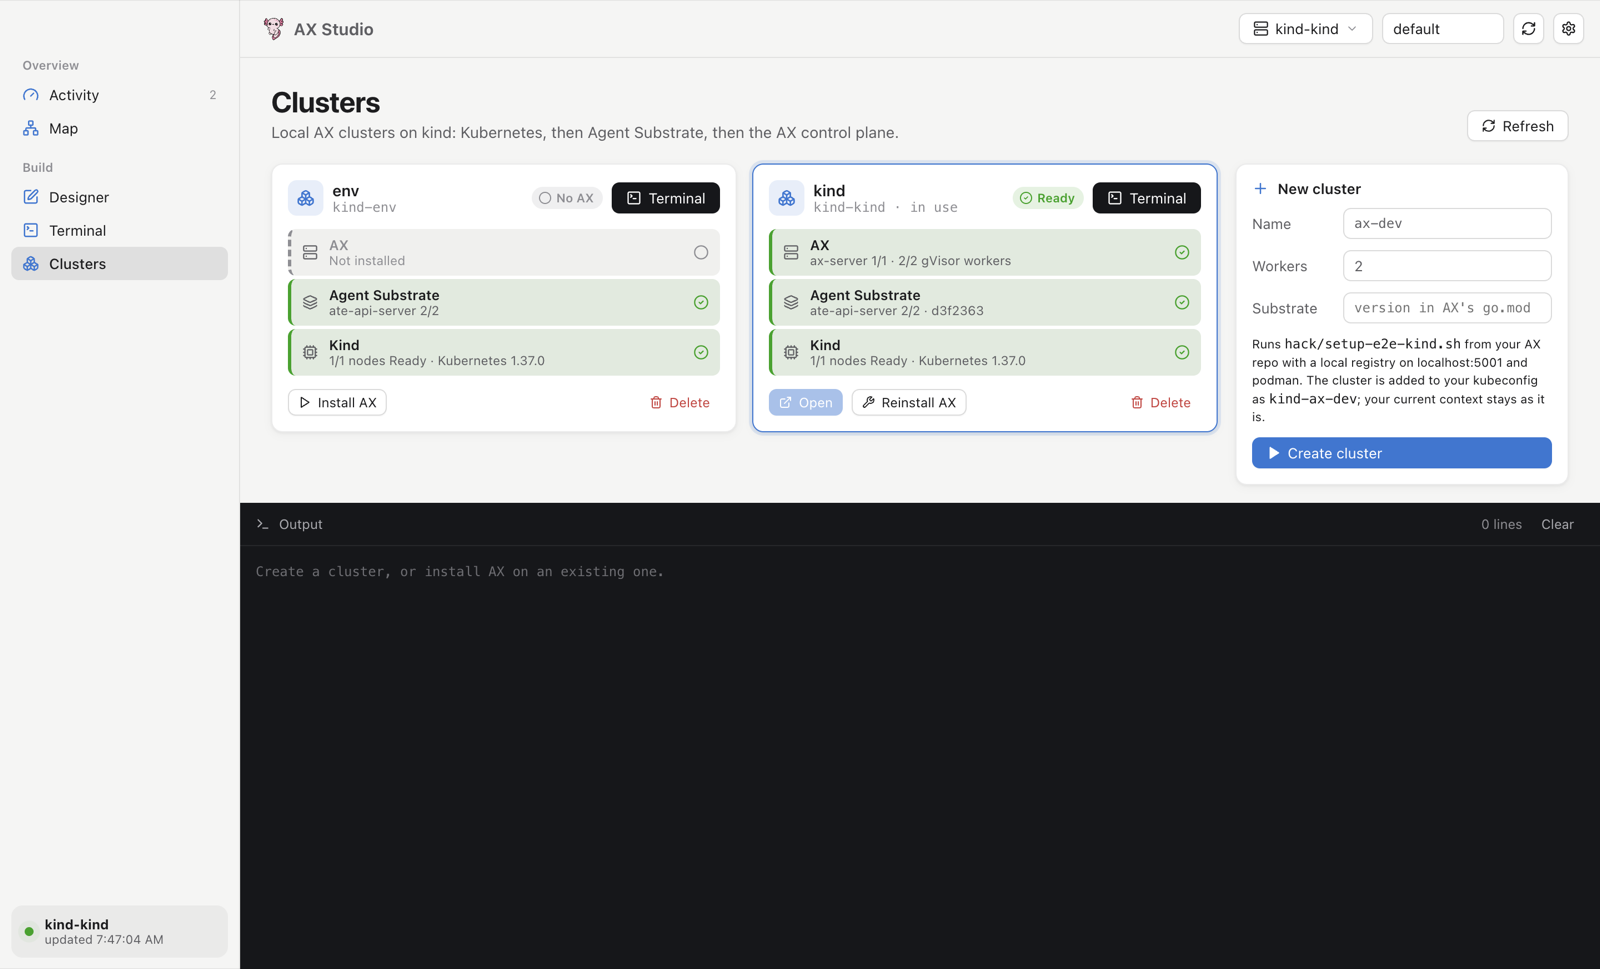
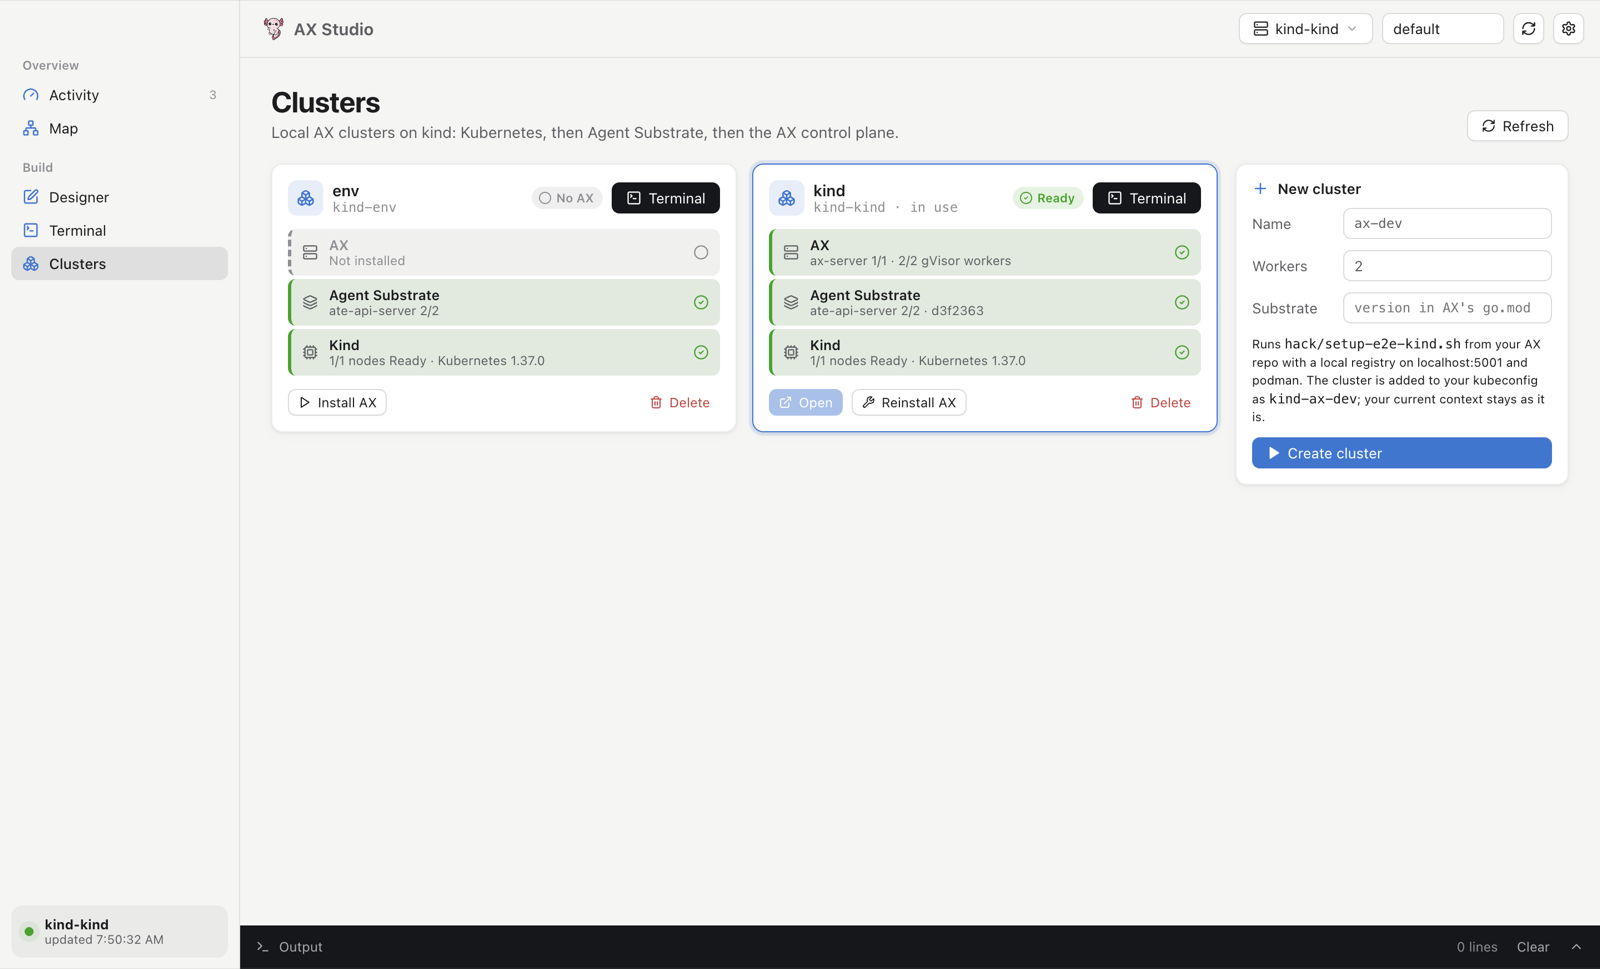
Collapse the cluster output by default
Click the Output bar to expand or collapse it. It opens when a create
or install starts.

diff --git a/src/renderer/src/components.tsx b/src/renderer/src/components.tsx
@@ -1,5 +1,5 @@
 import { useEffect, useRef, type CSSProperties, type ReactNode } from 'react'
-import { CircleCheck, CirclePause, CirclePlay, CircleHelp, Hourglass, OctagonX, Terminal, Trash2, type LucideIcon } from 'lucide-react'
+import { ChevronDown, ChevronUp, CircleCheck, CirclePause, CirclePlay, CircleHelp, Hourglass, OctagonX, Terminal, Trash2, type LucideIcon } from 'lucide-react'
 import { type Phase, phaseColor, phaseLabel } from './model/resources'
 
 const PHASE_ICON: Record<string, LucideIcon> = {
@@ -94,31 +94,36 @@ export interface ConsoleLine {
 }
 
 /** A dark, auto-scrolling log pane for streamed command output. */
-export function LogConsole({ lines, chip, onClear, clearDisabled, empty }: {
+export function LogConsole({ lines, chip, onClear, clearDisabled, empty, open = true, onToggle }: {
   lines: ConsoleLine[]
   chip?: ReactNode
   onClear: () => void
   clearDisabled?: boolean
   empty: ReactNode
+  open?: boolean
+  onToggle?: () => void
 }) {
   const ref = useRef<HTMLDivElement>(null)
   const stick = useRef(true)
 
   useEffect(() => {
     if (stick.current && ref.current) ref.current.scrollTop = ref.current.scrollHeight
-  }, [lines.length])
+  }, [lines.length, open])
 
+  const Chevron = open ? ChevronDown : ChevronUp
   return (
-    <div className="console">
-      <div className="row console-bar">
+    <div className={`console ${open ? '' : 'collapsed'}`}>
+      <div className={`row console-bar ${onToggle ? 'collapsible' : ''}`} onClick={onToggle}
+        title={onToggle ? (open ? 'Collapse output' : 'Expand output') : undefined}>
         <Terminal size={13} />
         <span>Output</span>
         {chip}
         <div className="spacer" />
         <span className="faint">{lines.length} lines</span>
-        <button className="btn small ghost" onClick={onClear} disabled={clearDisabled}>Clear</button>
+        <button className="btn small ghost" onClick={(e) => { e.stopPropagation(); onClear() }} disabled={clearDisabled}>Clear</button>
+        {onToggle && <Chevron size={14} />}
       </div>
-      <div
+      {open && <div
         className="console-body selectable"
         ref={ref}
         onScroll={(e) => {
@@ -133,7 +138,7 @@ export function LogConsole({ lines, chip, onClear, clearDisabled, empty }: {
             <div key={l.id} className={`console-line ${l.header ?? ''}`}>{l.text || ' '}</div>
           ))
         )}
-      </div>
+      </div>}
     </div>
   )
 }

diff --git a/src/renderer/src/views/Clusters.tsx b/src/renderer/src/views/Clusters.tsx
@@ -26,6 +26,8 @@ export function Clusters() {
   const running = c.op?.status === 'running'
   const problems = clusters.problems
   const [selected, setSelected] = useState<string | null>(new URLSearchParams(location.search).get('cluster'))
+  const [outputOpen, setOutputOpen] = useState(false)
+  useEffect(() => { if (running) setOutputOpen(true) }, [running])
 
   return (
     <div className="clusters">
@@ -63,6 +65,8 @@ export function Clusters() {
         onClear={() => clusters.set({ log: [] })}
         clearDisabled={running}
         empty="Create a cluster, or install AX on an existing one."
+        open={outputOpen}
+        onToggle={() => setOutputOpen(!outputOpen)}
       />
     </div>
   )

diff --git a/src/renderer/src/styles/console.css b/src/renderer/src/styles/console.css
@@ -10,6 +10,8 @@
 .problem-line { color: var(--warn); margin-top: 6px; gap: 6px; }
 
 .console { flex: 1; min-height: 160px; display: flex; flex-direction: column; background: var(--console); color: var(--console-text); }
+.console.collapsed { flex: 0 0 auto; min-height: 0; margin-top: auto; }
+.console-bar.collapsible { cursor: pointer; }
 .console-bar { padding: 7px 14px; gap: 7px; font-size: 12px; color: #a9a9ae; border-bottom: 1px solid rgba(255,255,255,.07); }
 .console-bar .btn.ghost { color: #a9a9ae; }
 .console-bar .btn.ghost:hover:not(:disabled) { background: rgba(255,255,255,.08); }
